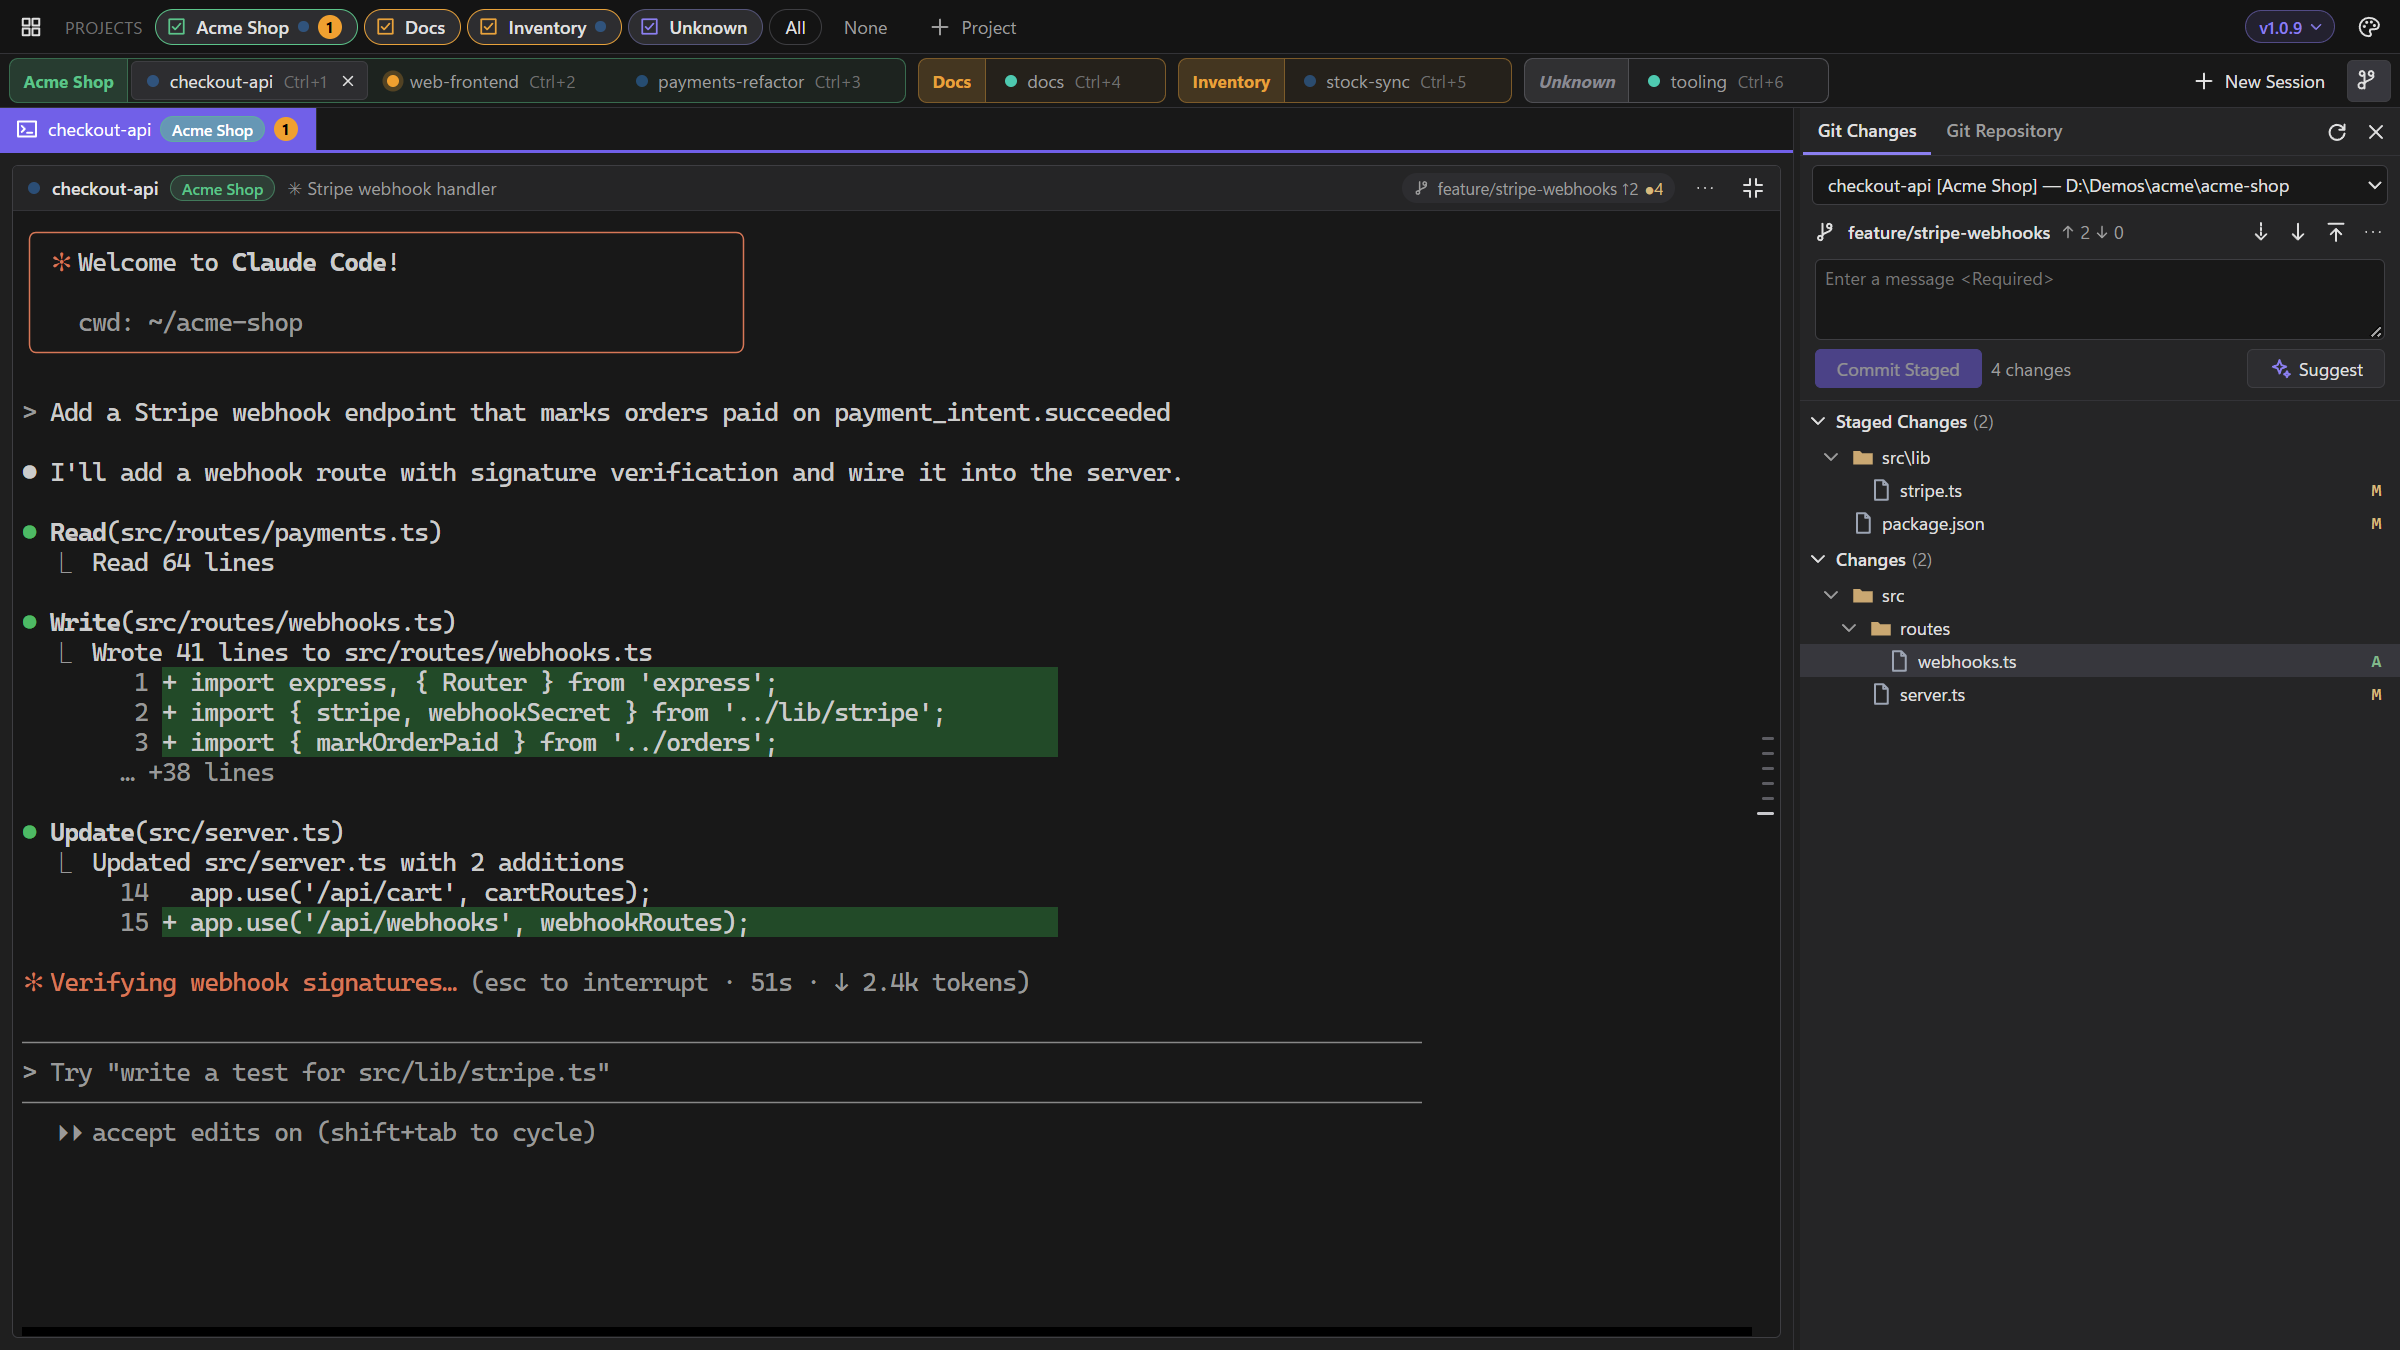
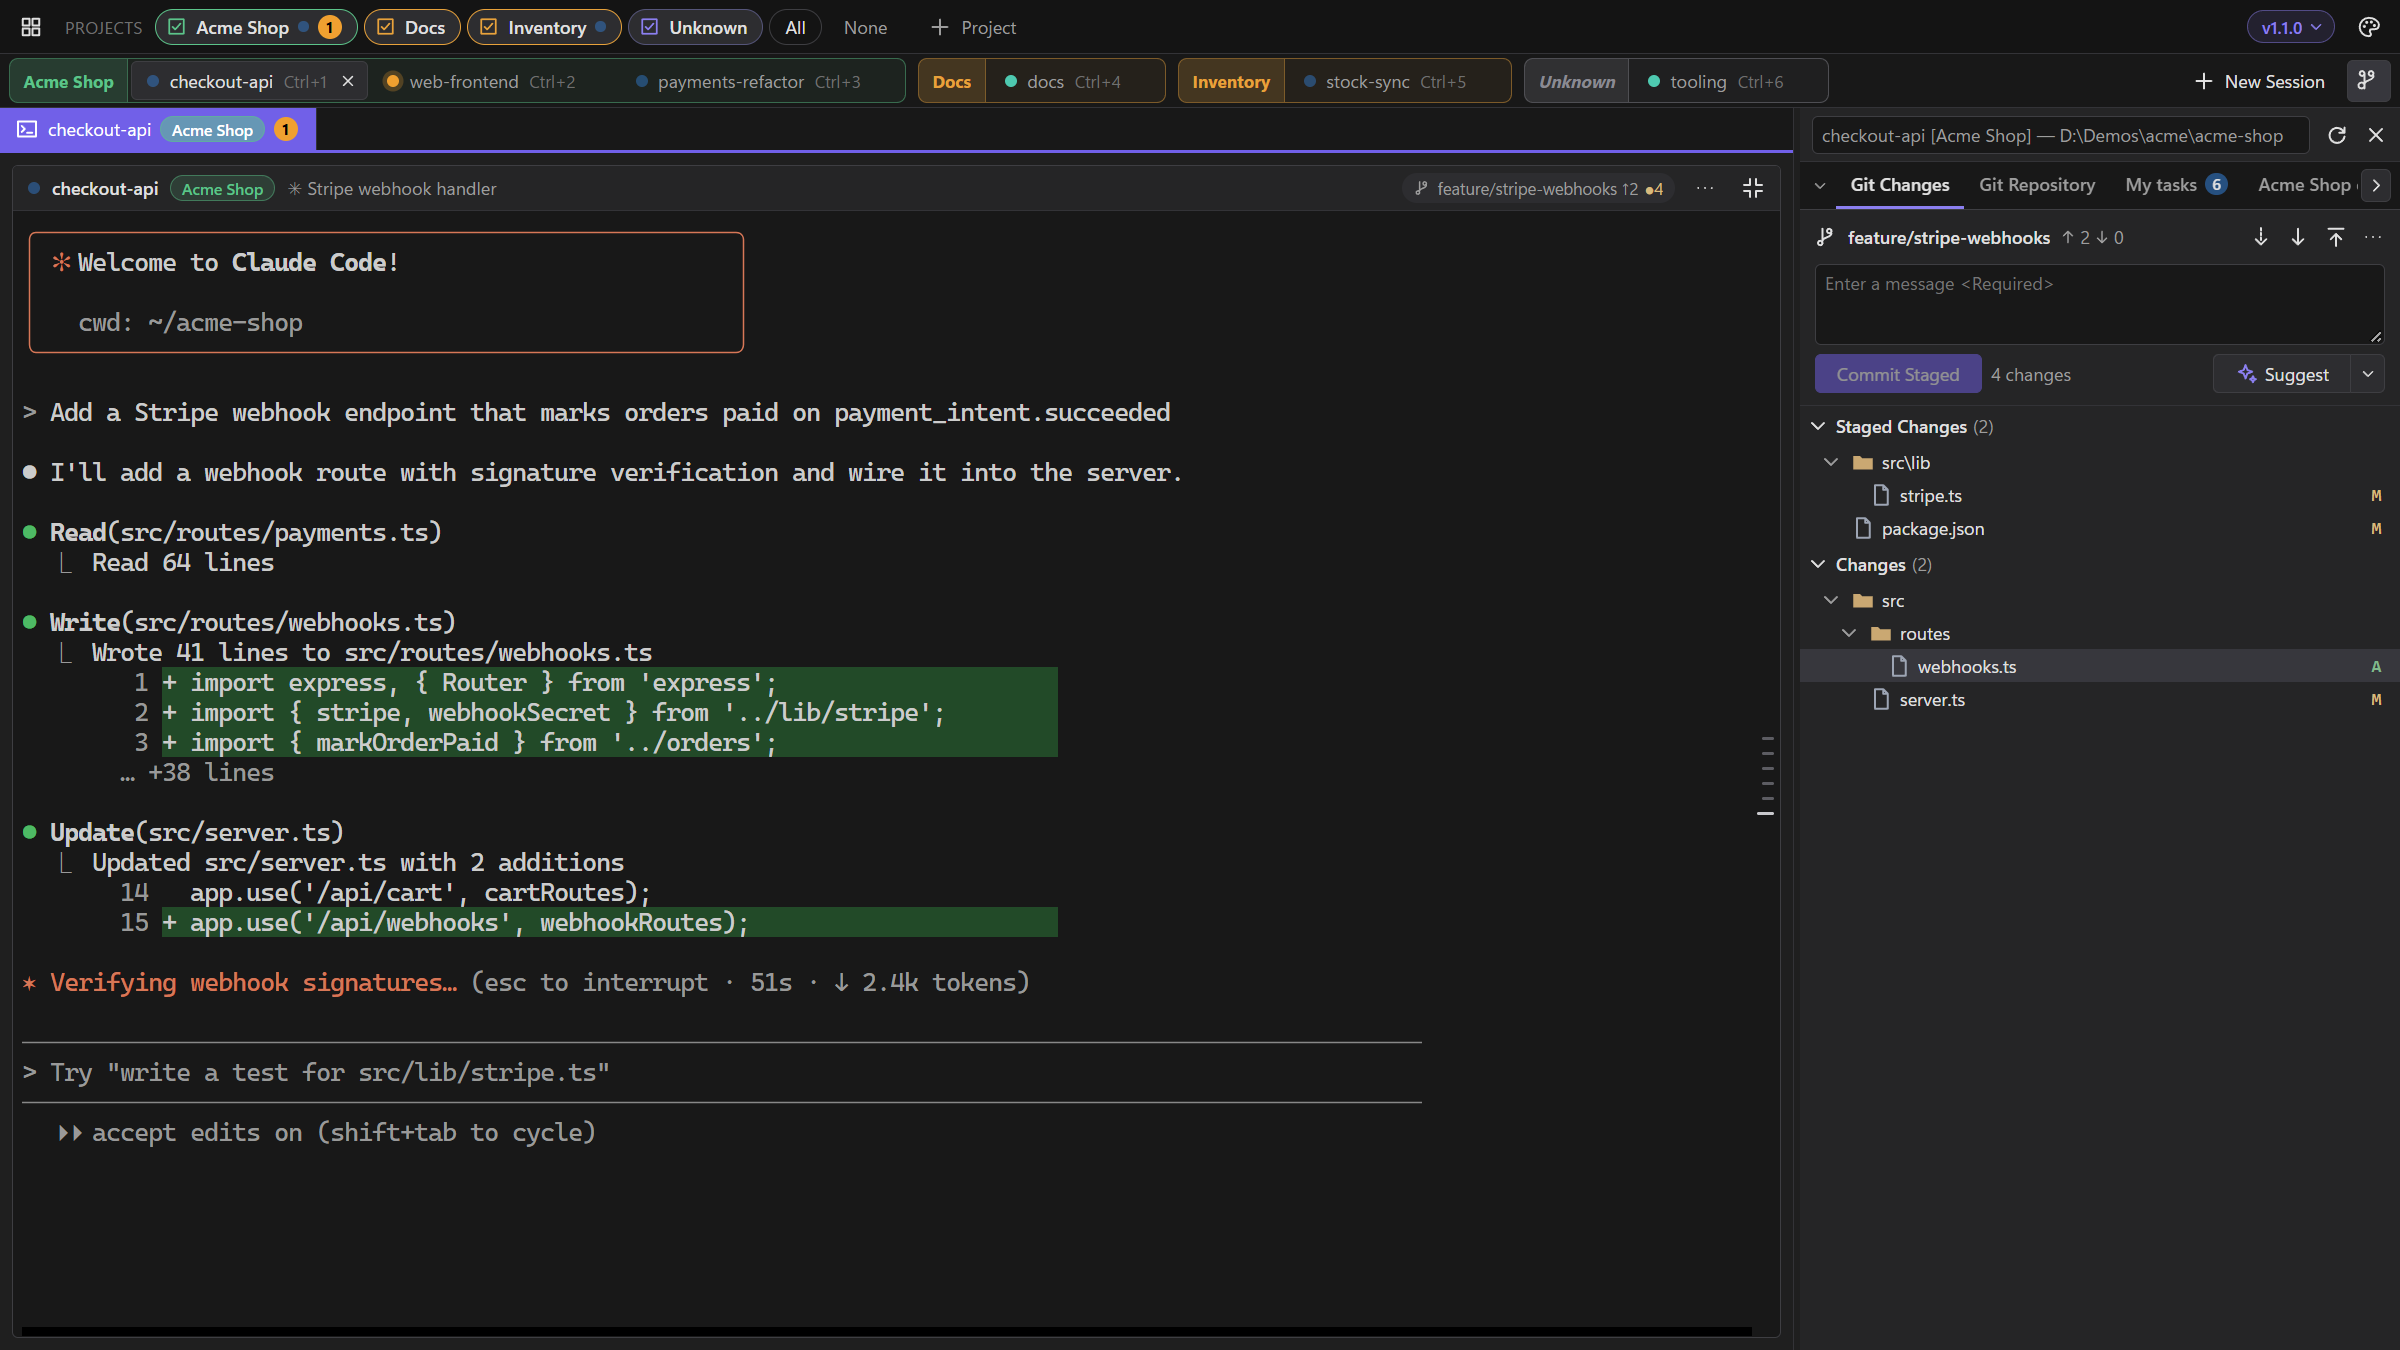
docs: 1.1.0, README and screenshots for panels, docking and per-session conversations
- Version 1.1.0.
- New screenshots: a My tasks panel, and Git Changes docked above an errors panel
  (stat tiles, a trend line, details with coloured code, an updated dot). The demo
  profile now includes panels as Claude would have shown them, and the capture
  script uses the dock (resetDock / activateTab instead of the old single tab).
- All screenshots regenerated (version chip, panel tabs, the New Session note).
- README: the new screenshots and a line on arranging the side panel.

diff --git a/README.md b/README.md
@@ -19,6 +19,10 @@ One window for many local Claude Code sessions, with a Visual Studio–style Git
     <td width="50%"><a href="docs/images/rail.png"><img src="docs/images/rail.png" alt="The conversation rail beside a session, with a prompt's preview"></a><br><sub>The ticks beside the terminal are your prompts: hover for a preview, click to read that part of the conversation.</sub></td>
     <td width="50%"><a href="docs/images/conversation.png"><img src="docs/images/conversation.png" alt="The Conversation tab in the light theme"></a><br><sub>The whole conversation as text, here in the light theme (System, Light or Dark from the palette button).</sub></td>
   </tr>
+  <tr>
+    <td width="50%"><a href="docs/images/panels.png"><img src="docs/images/panels.png" alt="A My tasks panel shown by Claude beside the terminal"></a><br><sub>Panels Claude shows beside the terminal: your tasks grouped by status, with ticks, badges and buttons that fill in a prompt for you.</sub></td>
+    <td width="50%"><a href="docs/images/docking.png"><img src="docs/images/docking.png" alt="Git Changes docked above an errors panel"></a><br><sub>Dock tabs where you want them: here Git Changes on top and an errors panel below, with stats, a trend and details.</sub></td>
+  </tr>
 </table>
 
 <sub>Screenshots show a fictional demo project with simulated sessions; regenerate them with <code>tools\screenshots\run.ps1</code>.</sub>
@@ -29,7 +33,8 @@ One window for many local Claude Code sessions, with a Visual Studio–style Git
 - **Projects.** Group sessions (for example one product's worktrees) and show or hide each group; hidden sessions keep running and still tell you when they need you.
 - **Git, Visual Studio style.** Each session's worktree gets Git Changes (stage, commit, Undo Changes, fetch, pull, push) and Git Repository (history, outgoing commits), with side-by-side diffs that update as Claude edits. **Suggest** writes the commit message for you, and a chip links the branch's pull request on GitHub or Azure DevOps.
 - **Look back through a conversation.** A rail of ticks beside the terminal, one per prompt; hover for a preview, click to read the whole conversation in its own tab. Works even in Claude's full-screen mode.
-- **Panels from Claude.** Claude can show your task list, an error summary or notes as a tab beside the Git panel, through a small MCP server built into the app; buttons on them only ever fill in a prompt for you.
+- **Panels from Claude.** Claude can show your task list, an error summary or notes as a tab beside the Git panel, through a small MCP server built into the app; buttons on them only ever fill in a prompt for you. A ready-made example skill gets you started.
+- **Arrange the side panel.** Drag tabs into groups stacked one above the other (Git Changes on top, your panels below, say), resize them, and fold any group down to its tabs.
 - **Picks up where you left off.** Each session has a conversation of its own and reopens it when the app restarts, following you through `/clear`; you can also resume any saved conversation.
 - **Light or dark, in your colours.** Follows Windows' light/dark mode and accent colour, or choose your own; Claude itself is started in matching colours.
 - **Keeps itself up to date.** Tells you when a new version is out and installs it in a click; your sessions carry on afterwards.
